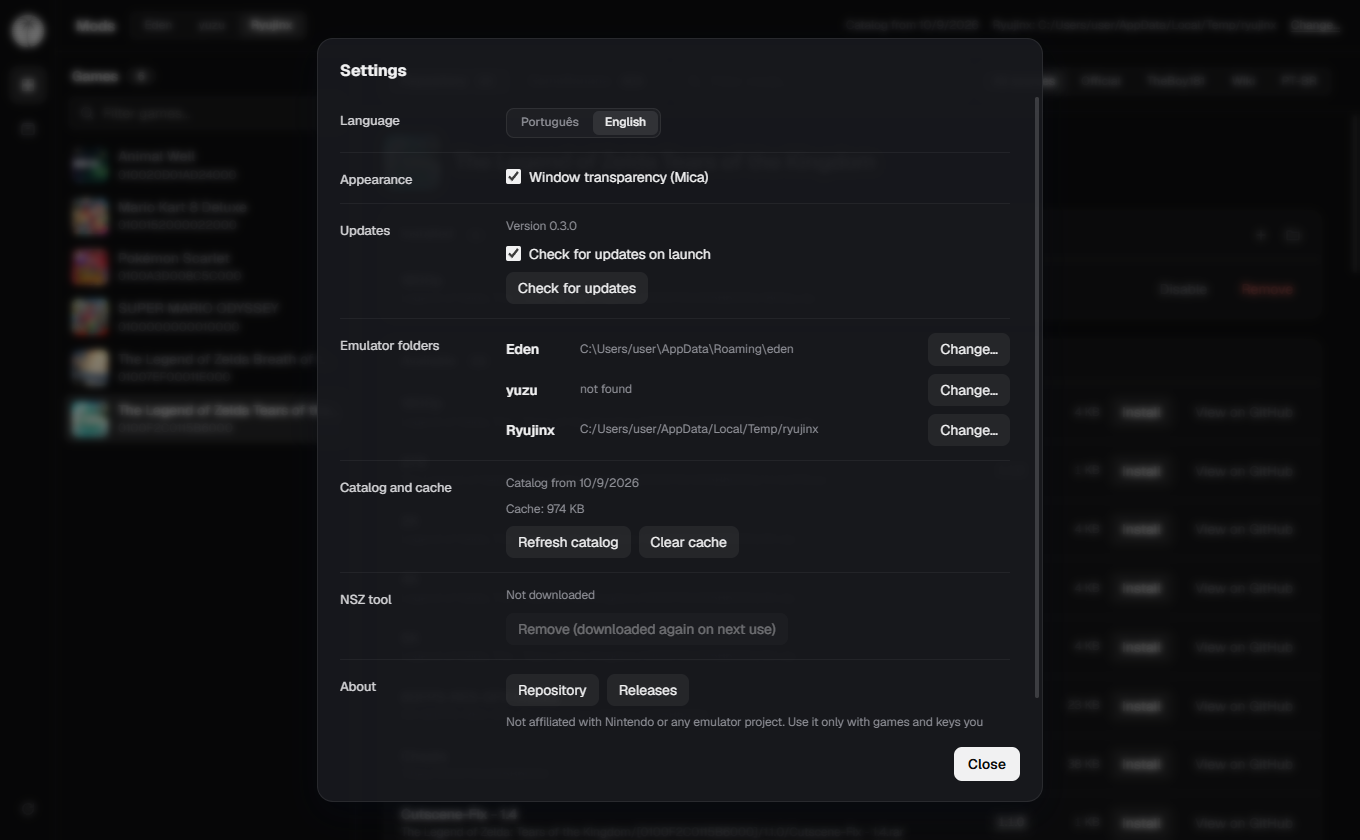
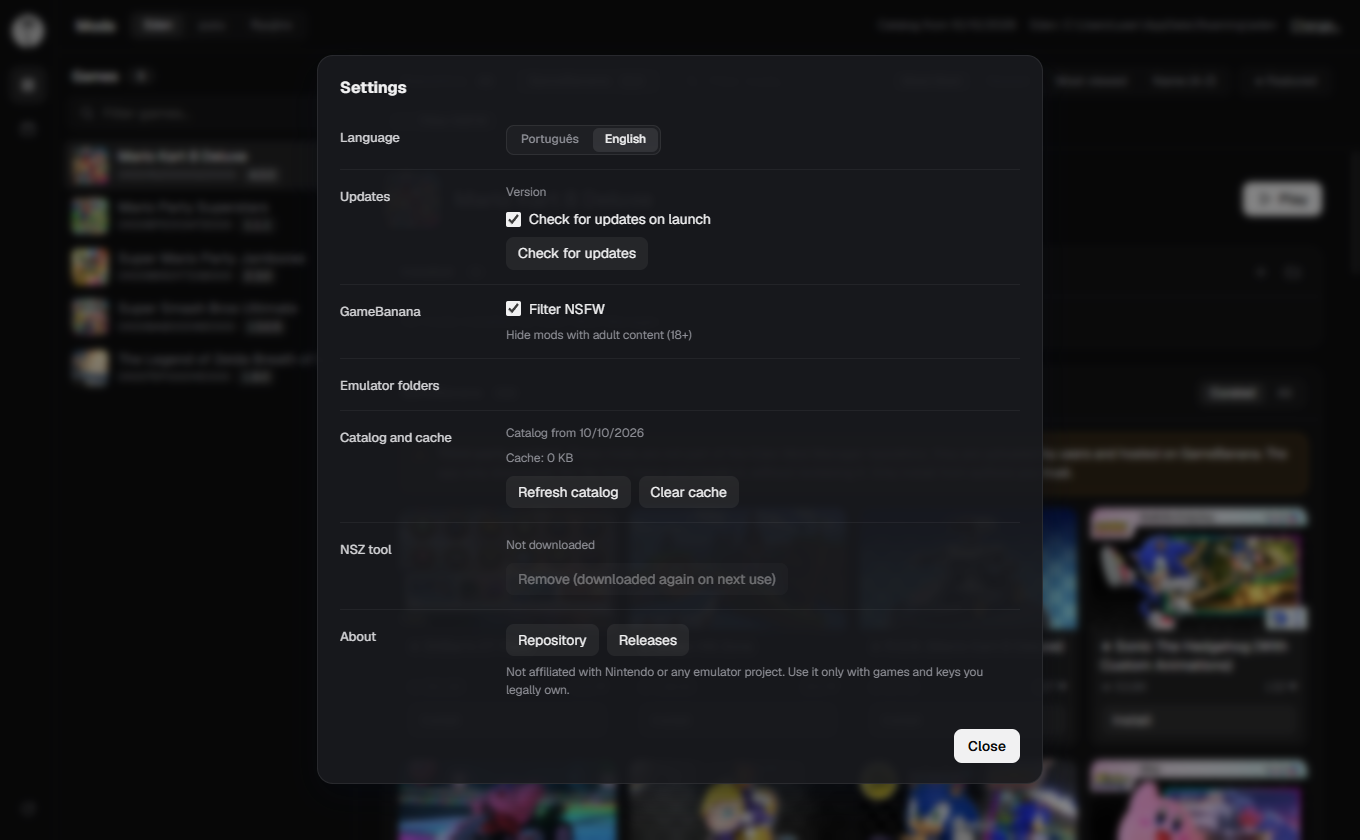
feat(gb): add mod type category filter chips in GameBanana tab (#40)

diff --git a/src/routes/+page.svelte b/src/routes/+page.svelte
@@ -51,6 +51,7 @@
   const gbPendingMore = new Map<number, GbMore>();
   let gbSort = $state<"likes" | "newest" | "views" | "name">("likes");
   let gbFeaturedOnly = $state(false);
+  let gbCategory = $state<string>("all");
   let hideNsfw = $state(true);
   onMount(() => {
     const savedNsfw = localStorage.getItem("hideNsfw");
@@ -293,7 +294,31 @@
       return k && (k.includes(g) || g.includes(k));
     });
   });
-  // Busca e ordenação do GameBanana: palavras-chave, ID, destaque e ordenação.
+  // Categorias encontradas nos mods do jogo atual
+  const gbCategories = $derived.by(() => {
+    if (!gb || !selected || gb.tid !== selected.tid || gb.status !== "ok") return [];
+    const set = new Set<string>();
+    for (const m of gb.mods) {
+      if (m.category) set.add(m.category);
+    }
+    return Array.from(set).sort();
+  });
+
+  const gbCategoryCounts = $derived.by(() => {
+    const counts: Record<string, number> = { all: 0 };
+    if (!gb || !selected || gb.tid !== selected.tid || gb.status !== "ok") return counts;
+    for (const m of gb.mods) {
+      if (hideNsfw && m.nsfw) continue;
+      if (gbFeaturedOnly && !m.featured) continue;
+      counts.all = (counts.all ?? 0) + 1;
+      if (m.category) {
+        counts[m.category] = (counts[m.category] ?? 0) + 1;
+      }
+    }
+    return counts;
+  });
+
+  // Busca e ordenação do GameBanana: palavras-chave, ID, destaque, categoria e ordenação.
   const gbList = $derived.by(() => {
     if (!gb || !selected || gb.tid !== selected.tid || gb.status !== "ok") return [];
     const query = q.trim().toLowerCase();
@@ -302,6 +327,7 @@
     const filtered = gb.mods.filter((m) => {
       if (gbFeaturedOnly && !m.featured) return false;
       if (hideNsfw && m.nsfw) return false;
+      if (gbCategory !== "all" && m.category !== gbCategory) return false;
       if (!terms.length) return true;
       const name = m.name.toLowerCase();
       const id = m.id.toLowerCase();
@@ -459,6 +485,7 @@
   function setGbAll(on: boolean) {
     if (on === gbAll) return;
     gbAll = on;
+    gbCategory = "all";
     localStorage.setItem("gbAll", on ? "on" : "off");
     if (selected) void loadGb(selected);
   }
@@ -486,6 +513,7 @@
 
   async function select(g: Game) {
     selected = g;
+    gbCategory = "all";
     notice = "";
     await refreshInstalled();
     void loadGb(g);
@@ -773,7 +801,10 @@
         {#if working}<span class="card-bar"><span class="card-fill" class:indet={!progress?.total} style:width={progress?.total ? `${Math.min(100, (progress.received / progress.total) * 100)}%` : undefined}></span></span>{/if}
       </span>
       <span class="card-name">{m.featured ? "★ " : ""}{m.name}</span>
-      <span class="card-meta"><span title={t("gbViews")}>👁 {compact(m.views)}</span><span>{compact(m.likes)} ♥</span></span>
+      <span class="card-meta">
+        {#if m.category}<span class="card-cat">{m.category}</span>{:else}<span></span>{/if}
+        <span class="card-stats"><span title={t("gbViews")}>👁 {compact(m.views)}</span><span>{compact(m.likes)} ♥</span></span>
+      </span>
     </button>
     <button class="card-btn" class:installed={isInstalled} disabled={busy || isInstalled} aria-busy={working} onclick={() => install(m)}>{#if working}{@render spinner()}{:else if isInstalled}{@render icon(ICON.check)}{/if}{working ? t("gbInstalling") : failed ? t("retry") : isInstalled ? t("gbInstalled") : t("install")}</button>
   </div>
@@ -1054,6 +1085,26 @@
                   </span>
                 </h3>
                 <div class="warn" role="note">{@render icon(ICON.alert)}<p><strong>{t("gbWarnTitle")}</strong> {t("gbWarn")}</p></div>
+                {#if gbCategories.length > 1 || gbCategory !== "all"}
+                  <div class="cats-row">
+                    <div class="seg" role="group" aria-label={t("gbCategories")}>
+                      <button
+                        aria-pressed={gbCategory === "all"}
+                        onclick={() => (gbCategory = "all")}
+                      >
+                        {t("catAll")} <span class="count">{gbCategoryCounts.all ?? 0}</span>
+                      </button>
+                      {#each gbCategories as cat (cat)}
+                        <button
+                          aria-pressed={gbCategory === cat}
+                          onclick={() => (gbCategory = cat)}
+                        >
+                          {cat} <span class="count">{gbCategoryCounts[cat] ?? 0}</span>
+                        </button>
+                      {/each}
+                    </div>
+                  </div>
+                {/if}
                 {#if !gb || gb.tid !== selected.tid || gb.status === "loading"}
                   <p class="muted loading">{@render spinner()}{gbAll ? t("gbLoadingAll") : t("gbLoading")}</p>
                   <div class="cards" aria-hidden="true">{#each { length: 12 } as _, i (i)}<div class="card skel"></div>{/each}</div>
@@ -1066,7 +1117,7 @@
                     {#each gbList.slice(0, gbShown) as m (m.id)}{@render gbCard(m)}{/each}
                   </div>
                   {#if !gbList.length}
-                    <p class="muted">{q ? t("nothingMatches") : gbAll ? t("gbEmptyAll") : t("gbEmptyCurated")}</p>
+                    <p class="muted">{q || gbCategory !== "all" ? t("nothingMatches") : gbAll ? t("gbEmptyAll") : t("gbEmptyCurated")}</p>
                   {/if}
                   {#if gbList.length > gbShown}
                     <button class="ghost more" onclick={() => (gbShown += 50)}>{t("showMore", { n: gbList.length - gbShown })}</button>
@@ -1136,6 +1187,7 @@
       <div class="gbm-img">{#if img}<img src={img} alt="" />{/if}</div>
       <h3 id="gbm-title">{m.name}</h3>
       <div class="gbm-stats">
+        {#if m.category}<span class="card-cat">{m.category}</span>{/if}
         {#if gbDetail?.submitter}<span>{t("gbBy", { name: gbDetail.submitter })}</span>{/if}
         {#if gbDetail?.version}<span>v{gbDetail.version}</span>{/if}
         <span title={t("gbViews")}>👁 {compact(m.views)}</span>
@@ -1454,7 +1506,9 @@
   .card-fill { display: block; height: 100%; background: var(--accent); transition: width 0.2s; }
   .card-fill.indet { width: 100%; opacity: 0.6; animation: pulse 1s ease-in-out infinite; }
   .card-name { display: -webkit-box; -webkit-line-clamp: 2; line-clamp: 2; -webkit-box-orient: vertical; overflow: hidden; overflow-wrap: anywhere; white-space: normal; box-sizing: content-box; height: 2.6em; margin: 8px 10px 0; font-weight: 500; line-height: 1.3; }
-  .card-meta { display: flex; justify-content: space-between; gap: 8px; margin: 4px 10px 8px; color: var(--muted); font-size: 12px; line-height: 18px; white-space: nowrap; font-variant-numeric: tabular-nums; }
+  .card-meta { display: flex; justify-content: space-between; align-items: center; gap: 8px; margin: 4px 10px 8px; color: var(--muted); font-size: 12px; line-height: 18px; white-space: nowrap; font-variant-numeric: tabular-nums; }
+  .card-cat { max-width: 95px; overflow: hidden; text-overflow: ellipsis; white-space: nowrap; font-size: 11px; color: var(--muted); background: var(--badge); padding: 0 5px; border-radius: 4px; font-weight: 500; }
+  .card-stats { display: flex; gap: 8px; margin-left: auto; }
   .card-btn { margin: auto 10px 10px; }
   .card-btn.installed { opacity: 0.9; background: var(--ghost); color: var(--ok); border-color: var(--ok); cursor: default; }
   .card-btn.installed :global(.icon) { width: 12px; height: 12px; margin-right: 4px; vertical-align: -1px; }
@@ -1471,6 +1525,9 @@
   .warn { display: flex; gap: 10px; align-items: flex-start; margin: 14px 14px 0; padding: 10px 12px; border-radius: 10px; background: rgb(245 166 35 / 0.12); border: 1px solid rgb(245 166 35 / 0.45); font-size: 13px; line-height: 1.45; }
   .warn p { margin: 0; }
   .warn :global(.icon), .gbm-warn :global(.icon) { flex-shrink: 0; width: 16px; height: 16px; margin-top: 1px; color: #e09a1a; }
+  .cats-row { display: flex; overflow-x: auto; margin: 12px 14px 0; }
+  .cats-row .seg { flex-wrap: wrap; gap: 2px; }
+  .cats-row .count { margin-left: 4px; opacity: 0.7; font-size: 11px; font-variant-numeric: tabular-nums; }
   .dependency-notice { flex-shrink: 0; flex-wrap: wrap; align-items: center; margin: 10px 28px 0; }
   .dependency-notice p { flex: 1 1 240px; min-width: 0; }
   .dependency-notice button { white-space: normal; text-align: left; }

diff --git a/src/lib/i18n.svelte.ts b/src/lib/i18n.svelte.ts
@@ -129,6 +129,8 @@ const dict = {
     confirmNsfwInstall: "Este mod contém conteúdo adulto (+18). Deseja continuar com a instalação?",
     confirmNsfwOk: "Exibir conteúdo",
     nsfwModWarn: "Mod identificado como conteúdo adulto (+18).",
+    catAll: "Todos os tipos",
+    gbCategories: "Tipos de mods",
     gbLoading: "Buscando mods curados no GameBanana…",
     gbViews: "Visualizações",
     gbInstalled: "Instalado",
@@ -328,6 +330,8 @@ const dict = {
     confirmNsfwInstall: "This mod contains adult content (18+). Do you want to proceed with installation?",
     confirmNsfwOk: "Show content",
     nsfwModWarn: "Mod identified as adult content (18+).",
+    catAll: "All types",
+    gbCategories: "Mod types",
     gbUpdated: "Updated {date}",
     gbDetailLoading: "Loading details…",
     gbNoText: "No description.",

diff --git a/src/lib/api.ts b/src/lib/api.ts
@@ -17,7 +17,7 @@ export const SOURCE_LABEL: Record<Source, string> = {
   gamebanana: SOURCES.gamebanana.label,
 };
 
-export type GbMod = ModEntry & { thumb: string | null; likes: number; views: number; featured: boolean; nsfw?: boolean };
+export type GbMod = ModEntry & { thumb: string | null; likes: number; views: number; featured: boolean; nsfw?: boolean; category?: string | null };
 export type GbList = { found: boolean; mods: GbMod[] };
 export type GbMore = { tid: string; all: boolean; requestId: number; mods: GbMod[]; complete: boolean };
 export type GbDetail = { text: string; image: string | null; submitter: string | null; version: string | null; downloads: number; size: number; updated: number };

diff --git a/src-tauri/src/gamebanana.rs b/src-tauri/src/gamebanana.rs
@@ -66,6 +66,8 @@ struct Rec {
     views: u32,
     #[serde(rename = "_bHasContentRatings", default)]
     has_content_ratings: bool,
+    #[serde(rename = "_aRootCategory", default)]
+    root_category: serde_json::Value,
     // Value: APIs PHP mandam `[]` no lugar de objeto vazio
     #[serde(rename = "_aPreviewMedia", default)]
     media: serde_json::Value,
@@ -247,8 +249,8 @@ pub struct GbMod {
     pub views: u32,
     pub featured: bool,
     pub nsfw: bool,
+    pub category: Option<String>,
 }
-
 #[derive(Serialize, Clone)]
 #[serde(rename_all = "camelCase")]
 pub struct GbMore {
@@ -286,12 +288,14 @@ fn to_gb_mods(recs: BTreeMap<u64, Rec>, tid: &str) -> Vec<GbMod> {
                 || n_lower.contains("+18")
                 || n_lower.contains("18+")
                 || n_lower.contains("nude");
+            let category = r.root_category.get("_sName").and_then(|v| v.as_str()).map(String::from);
             GbMod {
                 thumb: image(&r.media, &["_sFile530", "_sFile100"]),
                 likes: r.likes,
                 views: r.views,
                 featured: r.featured,
                 nsfw,
+                category,
                 entry: ModEntry {
                     id: format!("{}{}", Source::Gamebanana.id_prefix(), r.id),
                     tid: Some(tid.to_string()),
@@ -501,12 +505,14 @@ mod tests {
     #[test]
     fn parses_sparse_index_page() {
         let j = r#"{"_aMetadata":{"_nRecordCount":2,"_bIsComplete":true,"_nPerpage":50},
-            "_aRecords":[{"_idRow":1,"_sName":"A","_bHasFiles":true,"_nLikeCount":7,"_bWasFeatured":true,"_bHasContentRatings":true,"_x":{},"_aPreviewMedia":{"_aImages":[{"_sBaseUrl":"https://x/ss","_sFile100":"100-a.jpg"}]}},
+            "_aRecords":[{"_idRow":1,"_sName":"A","_bHasFiles":true,"_nLikeCount":7,"_bWasFeatured":true,"_bHasContentRatings":true,"_aRootCategory":{"_sName":"Skins"},"_x":{},"_aPreviewMedia":{"_aImages":[{"_sBaseUrl":"https://x/ss","_sFile100":"100-a.jpg"}]}},
                          {"_idRow":2,"_sName":"B","_aPreviewMedia":[]}]}"#;
         let p: Page<Rec> = serde_json::from_str(j).unwrap();
         assert!(p.meta.complete);
         assert_eq!((p.records[0].likes, p.records[0].featured, p.records[0].has_files, p.records[0].has_content_ratings), (7, true, true, true));
+        assert_eq!(p.records[0].root_category["_sName"].as_str(), Some("Skins"));
         assert_eq!((p.records[1].likes, p.records[1].has_files, p.records[1].obsolete, p.records[1].has_content_ratings), (0, false, false, false));
+        assert!(p.records[1].root_category.is_null());
         let keys = ["_sFile530", "_sFile100"];
         assert_eq!(image(&p.records[0].media, &keys), Some("https://x/ss/100-a.jpg".into()));
         assert_eq!(image(&p.records[1].media, &keys), None);

diff --git a/README.md b/README.md
@@ -39,7 +39,7 @@ Use **+** in the Installed panel to install your own `.zip`, `.7z` or `.rar` arc
 ## Supported mods
 
 - Catalog mods from the official database, TheBoy181, the Switch Mods Wiki Archive and the PT-BR translation pack.
-- GameBanana mods. These are third-party uploads and are not reviewed by this app. Browse curated or all mods, sort by popularity, date, views or name, and filter featured community creations.
+- GameBanana mods. These are third-party uploads and are not reviewed by this app. Browse curated or all mods, filter by mod type (courses, skins, modpacks, etc.), sort by popularity, date, views or name, filter featured community creations, and toggle the adult content filter (enabled by default).
 - Standard mod archives with recognized `romfs`, `exefs`, `romfslite`, `romfs_ext` or `cheats` content.
 - Mario Kart 8 Deluxe archives with raw `Audio`, `Course`, `Driver`, `Kart` or `UI` folders.
 - Super Smash Bros. Ultimate ARCropolis mods for Eden and Ryujinx. Yuzu is not supported for ARCropolis.

diff --git a/docs/USER_GUIDE.md b/docs/USER_GUIDE.md
@@ -39,7 +39,7 @@ Click **Install**. Choose the variants you want when the installer asks. Then en
 
 ### From GameBanana
 
-Open the GameBanana tab for a selected game. Use the search bar, sort options (Most liked, Newest, Most viewed, Name) and the Featured filter to browse mods. Select a mod to read its details, then click **Install**.
+Open the GameBanana tab for a selected game. Use the search bar, category chips (courses, skins, modpacks, etc.), sort options (Most liked, Newest, Most viewed, Name), the Featured filter and the NSFW filter (enabled by default; requires confirmation to show adult content) to browse mods. Select a mod to read its details, then click **Install**.
 
 GameBanana mods are uploaded by users. The app does not review these files. Install files only from authors you trust.
 
